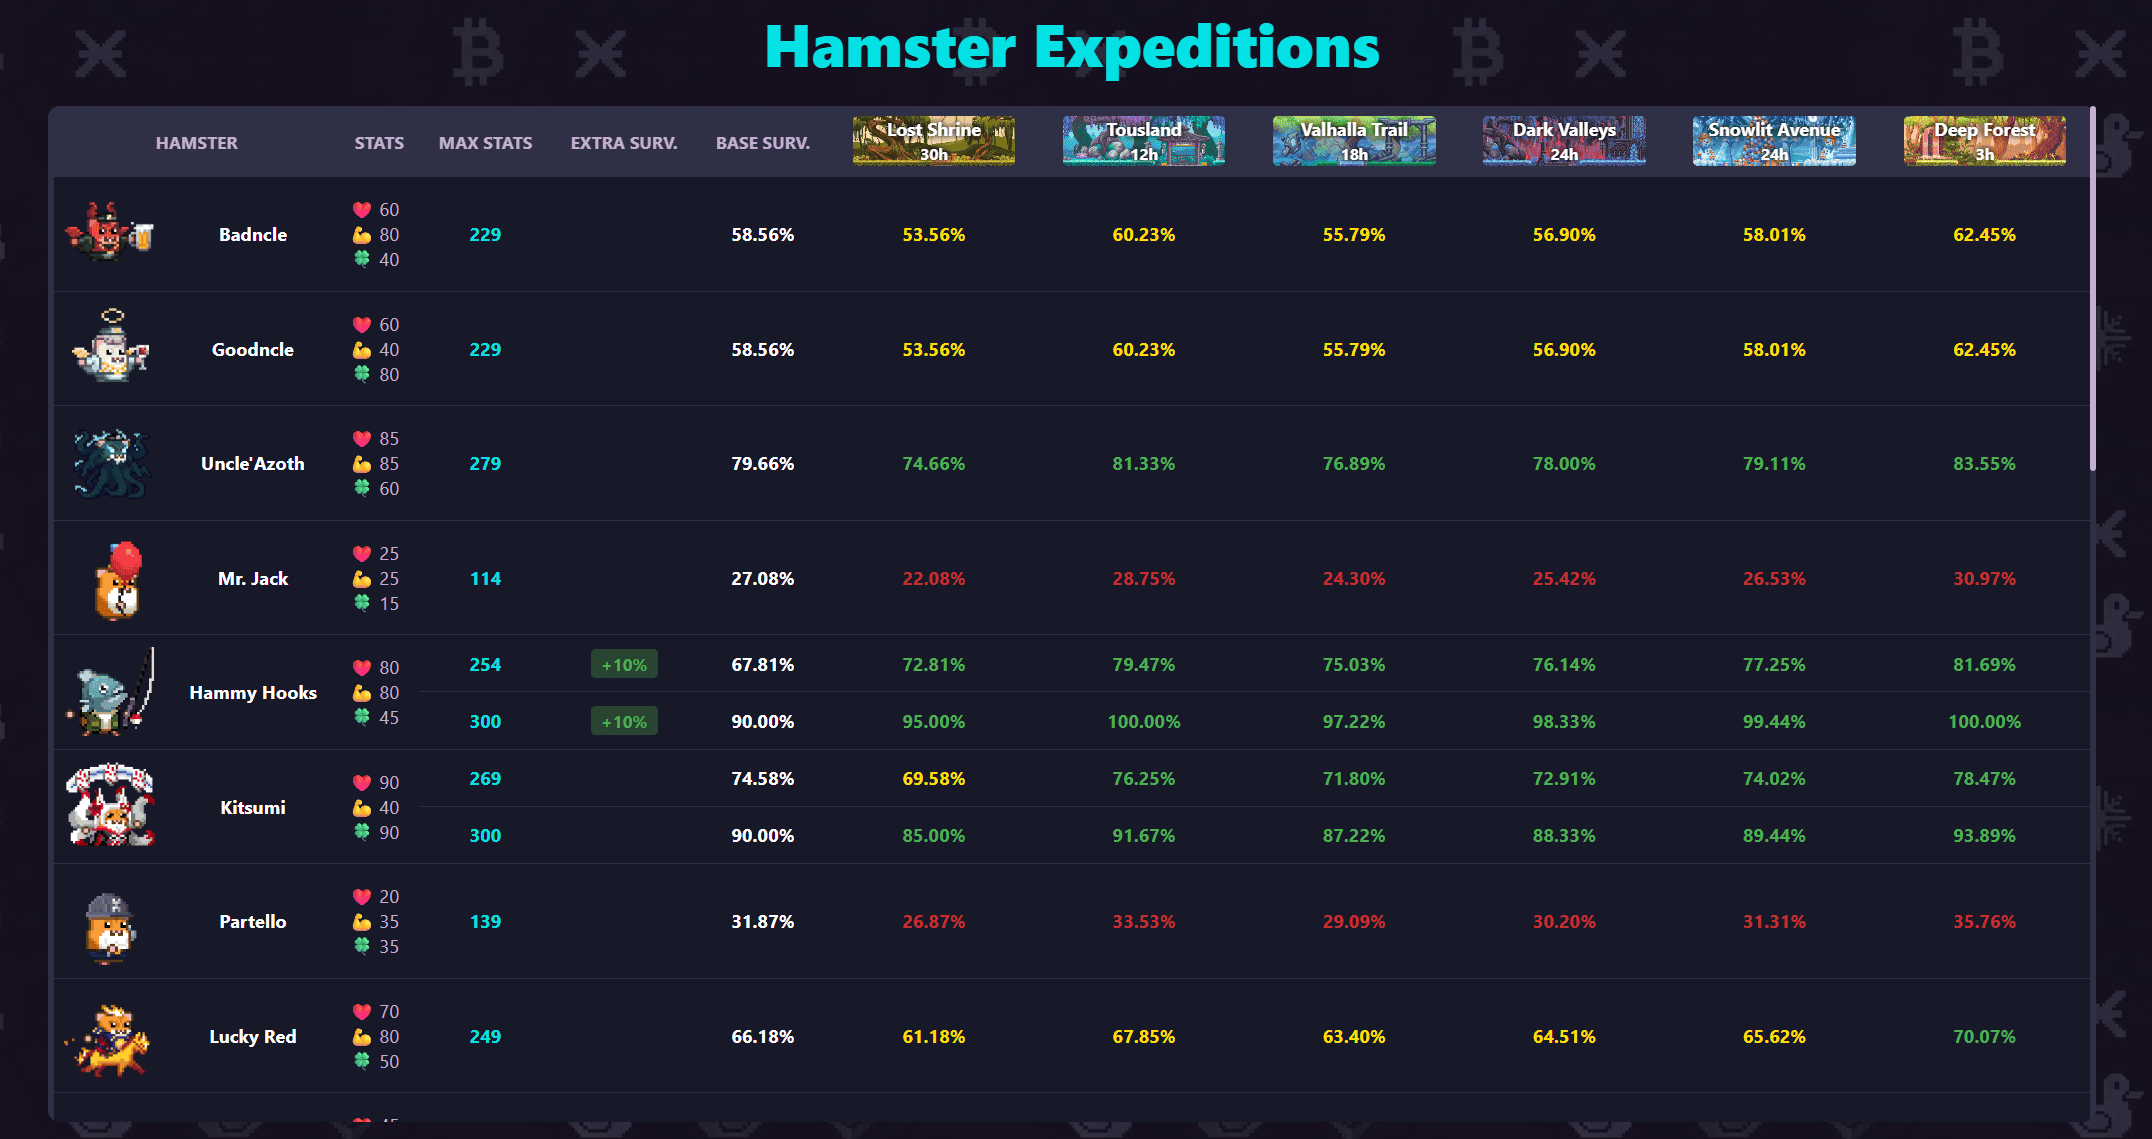
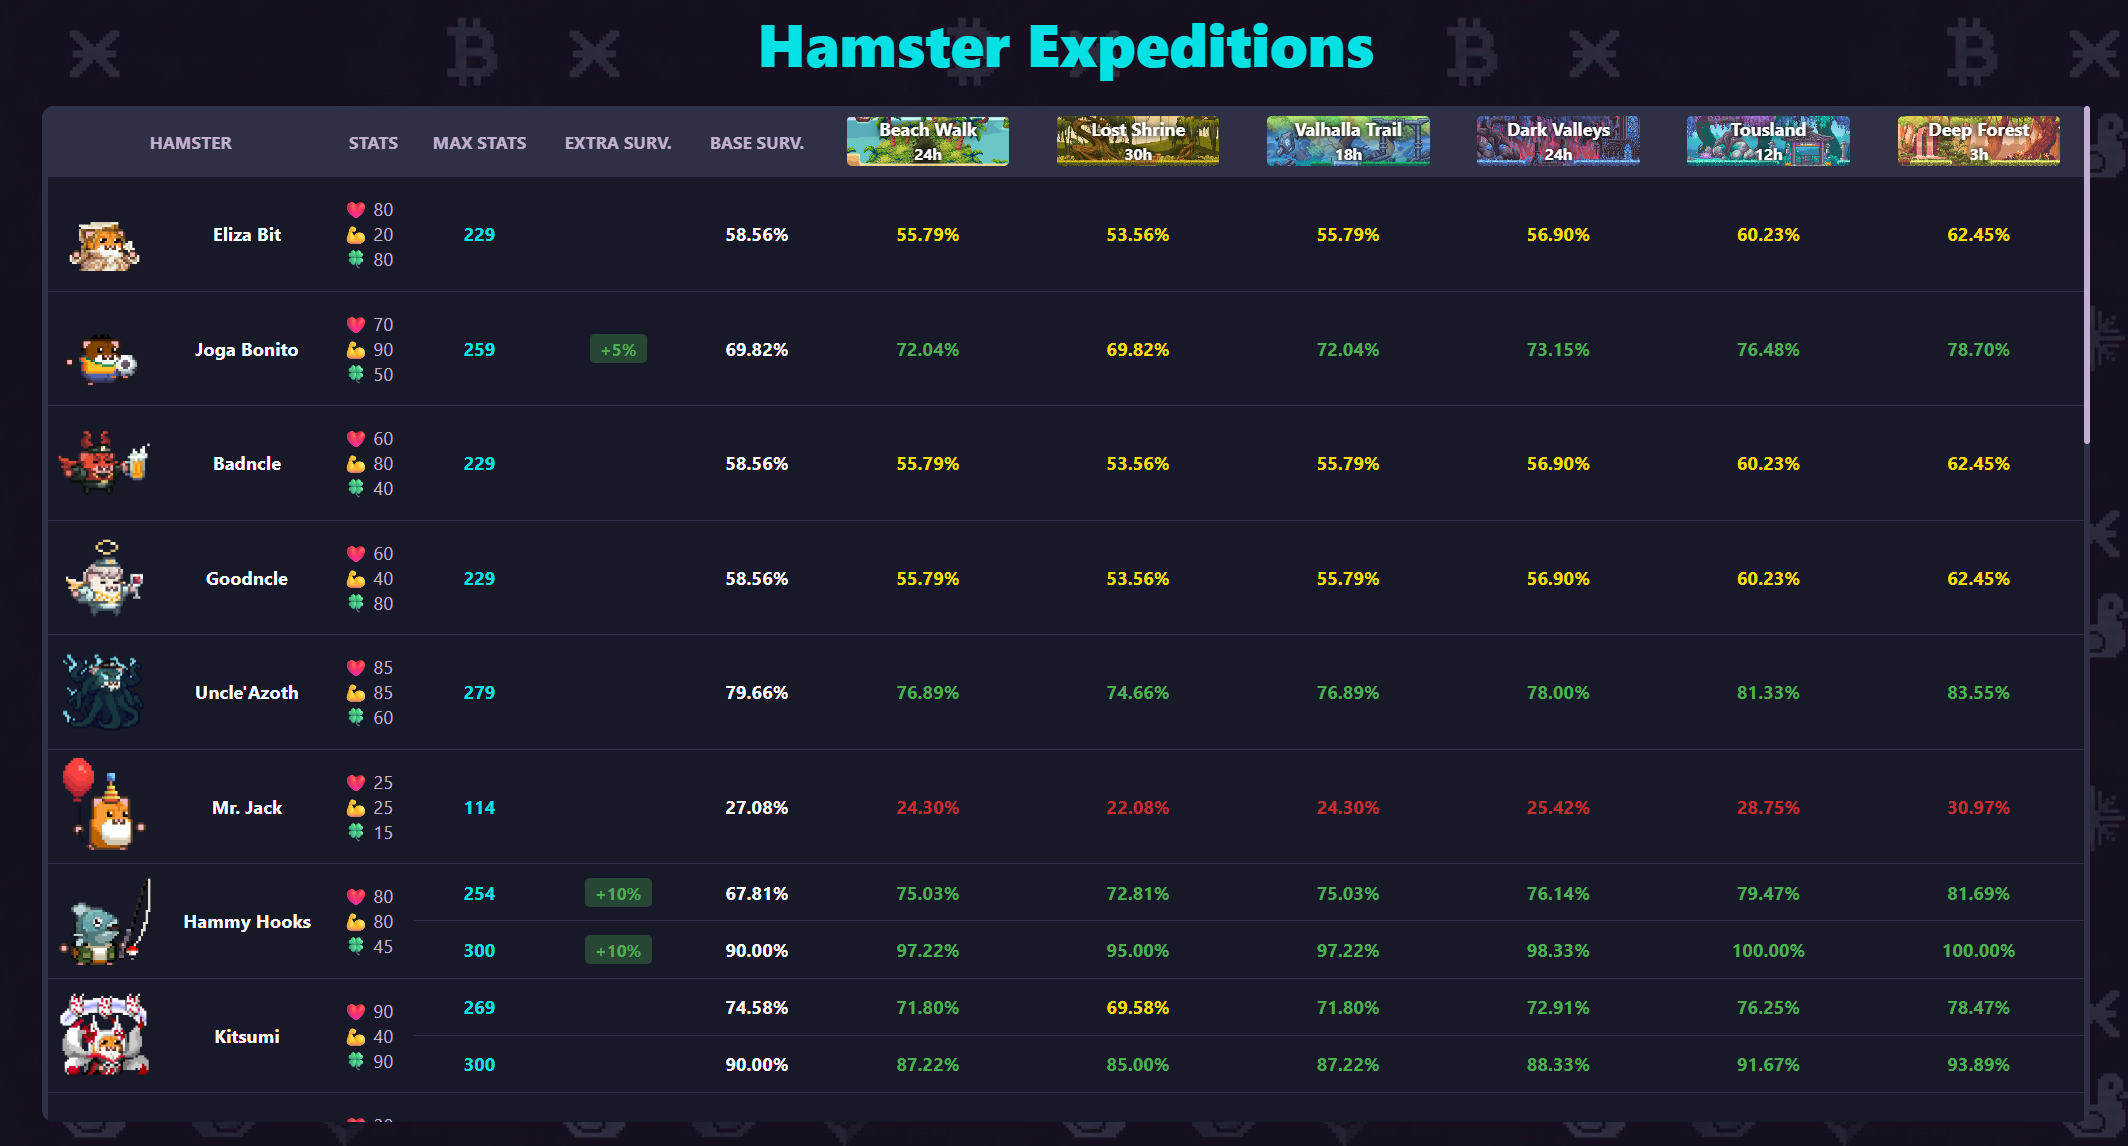
Updates

diff --git a/404.html b/404.html
@@ -51,7 +51,7 @@
 
     gtag('config', 'G-Y6W5KCVHH1');
   </script>
-    <script type="module" crossorigin src="/rc-calculator/assets/index-3a1cfca5.js"></script>
+    <script type="module" crossorigin src="/rc-calculator/assets/index-137f0f7d.js"></script>
     <link rel="stylesheet" href="/rc-calculator/assets/index-f97e85b0.css">
   </head>
   <body>

diff --git a/burning-event/index.html b/burning-event/index.html
@@ -49,7 +49,7 @@
 
     gtag('config', 'G-Y6W5KCVHH1');
   </script>
-    <script type="module" crossorigin src="/rc-calculator/assets/index-3a1cfca5.js"></script>
+    <script type="module" crossorigin src="/rc-calculator/assets/index-137f0f7d.js"></script>
     <link rel="stylesheet" href="/rc-calculator/assets/index-f97e85b0.css">
   </head>
   <body>

diff --git a/current-progression/index.html b/current-progression/index.html
@@ -49,7 +49,7 @@
 
     gtag('config', 'G-Y6W5KCVHH1');
   </script>
-    <script type="module" crossorigin src="/rc-calculator/assets/index-3a1cfca5.js"></script>
+    <script type="module" crossorigin src="/rc-calculator/assets/index-137f0f7d.js"></script>
     <link rel="stylesheet" href="/rc-calculator/assets/index-f97e85b0.css">
   </head>
   <body>

diff --git a/hamsters/index.html b/hamsters/index.html
@@ -49,7 +49,7 @@
 
     gtag('config', 'G-Y6W5KCVHH1');
   </script>
-    <script type="module" crossorigin src="/rc-calculator/assets/index-3a1cfca5.js"></script>
+    <script type="module" crossorigin src="/rc-calculator/assets/index-137f0f7d.js"></script>
     <link rel="stylesheet" href="/rc-calculator/assets/index-f97e85b0.css">
   </head>
   <body>

diff --git a/index.html b/index.html
@@ -51,7 +51,7 @@
 
     gtag('config', 'G-Y6W5KCVHH1');
   </script>
-    <script type="module" crossorigin src="/rc-calculator/assets/index-3a1cfca5.js"></script>
+    <script type="module" crossorigin src="/rc-calculator/assets/index-137f0f7d.js"></script>
     <link rel="stylesheet" href="/rc-calculator/assets/index-f97e85b0.css">
   </head>
   <body>

diff --git a/marketplace/index.html b/marketplace/index.html
@@ -49,7 +49,7 @@
 
     gtag('config', 'G-Y6W5KCVHH1');
   </script>
-    <script type="module" crossorigin src="/rc-calculator/assets/index-3a1cfca5.js"></script>
+    <script type="module" crossorigin src="/rc-calculator/assets/index-137f0f7d.js"></script>
     <link rel="stylesheet" href="/rc-calculator/assets/index-f97e85b0.css">
   </head>
   <body>

diff --git a/rollertap/index.html b/rollertap/index.html
@@ -49,7 +49,7 @@
 
     gtag('config', 'G-Y6W5KCVHH1');
   </script>
-    <script type="module" crossorigin src="/rc-calculator/assets/index-3a1cfca5.js"></script>
+    <script type="module" crossorigin src="/rc-calculator/assets/index-137f0f7d.js"></script>
     <link rel="stylesheet" href="/rc-calculator/assets/index-f97e85b0.css">
   </head>
   <body>

diff --git a/rooms/index.html b/rooms/index.html
@@ -49,7 +49,7 @@
 
     gtag('config', 'G-Y6W5KCVHH1');
   </script>
-    <script type="module" crossorigin src="/rc-calculator/assets/index-3a1cfca5.js"></script>
+    <script type="module" crossorigin src="/rc-calculator/assets/index-137f0f7d.js"></script>
     <link rel="stylesheet" href="/rc-calculator/assets/index-f97e85b0.css">
   </head>
   <body>